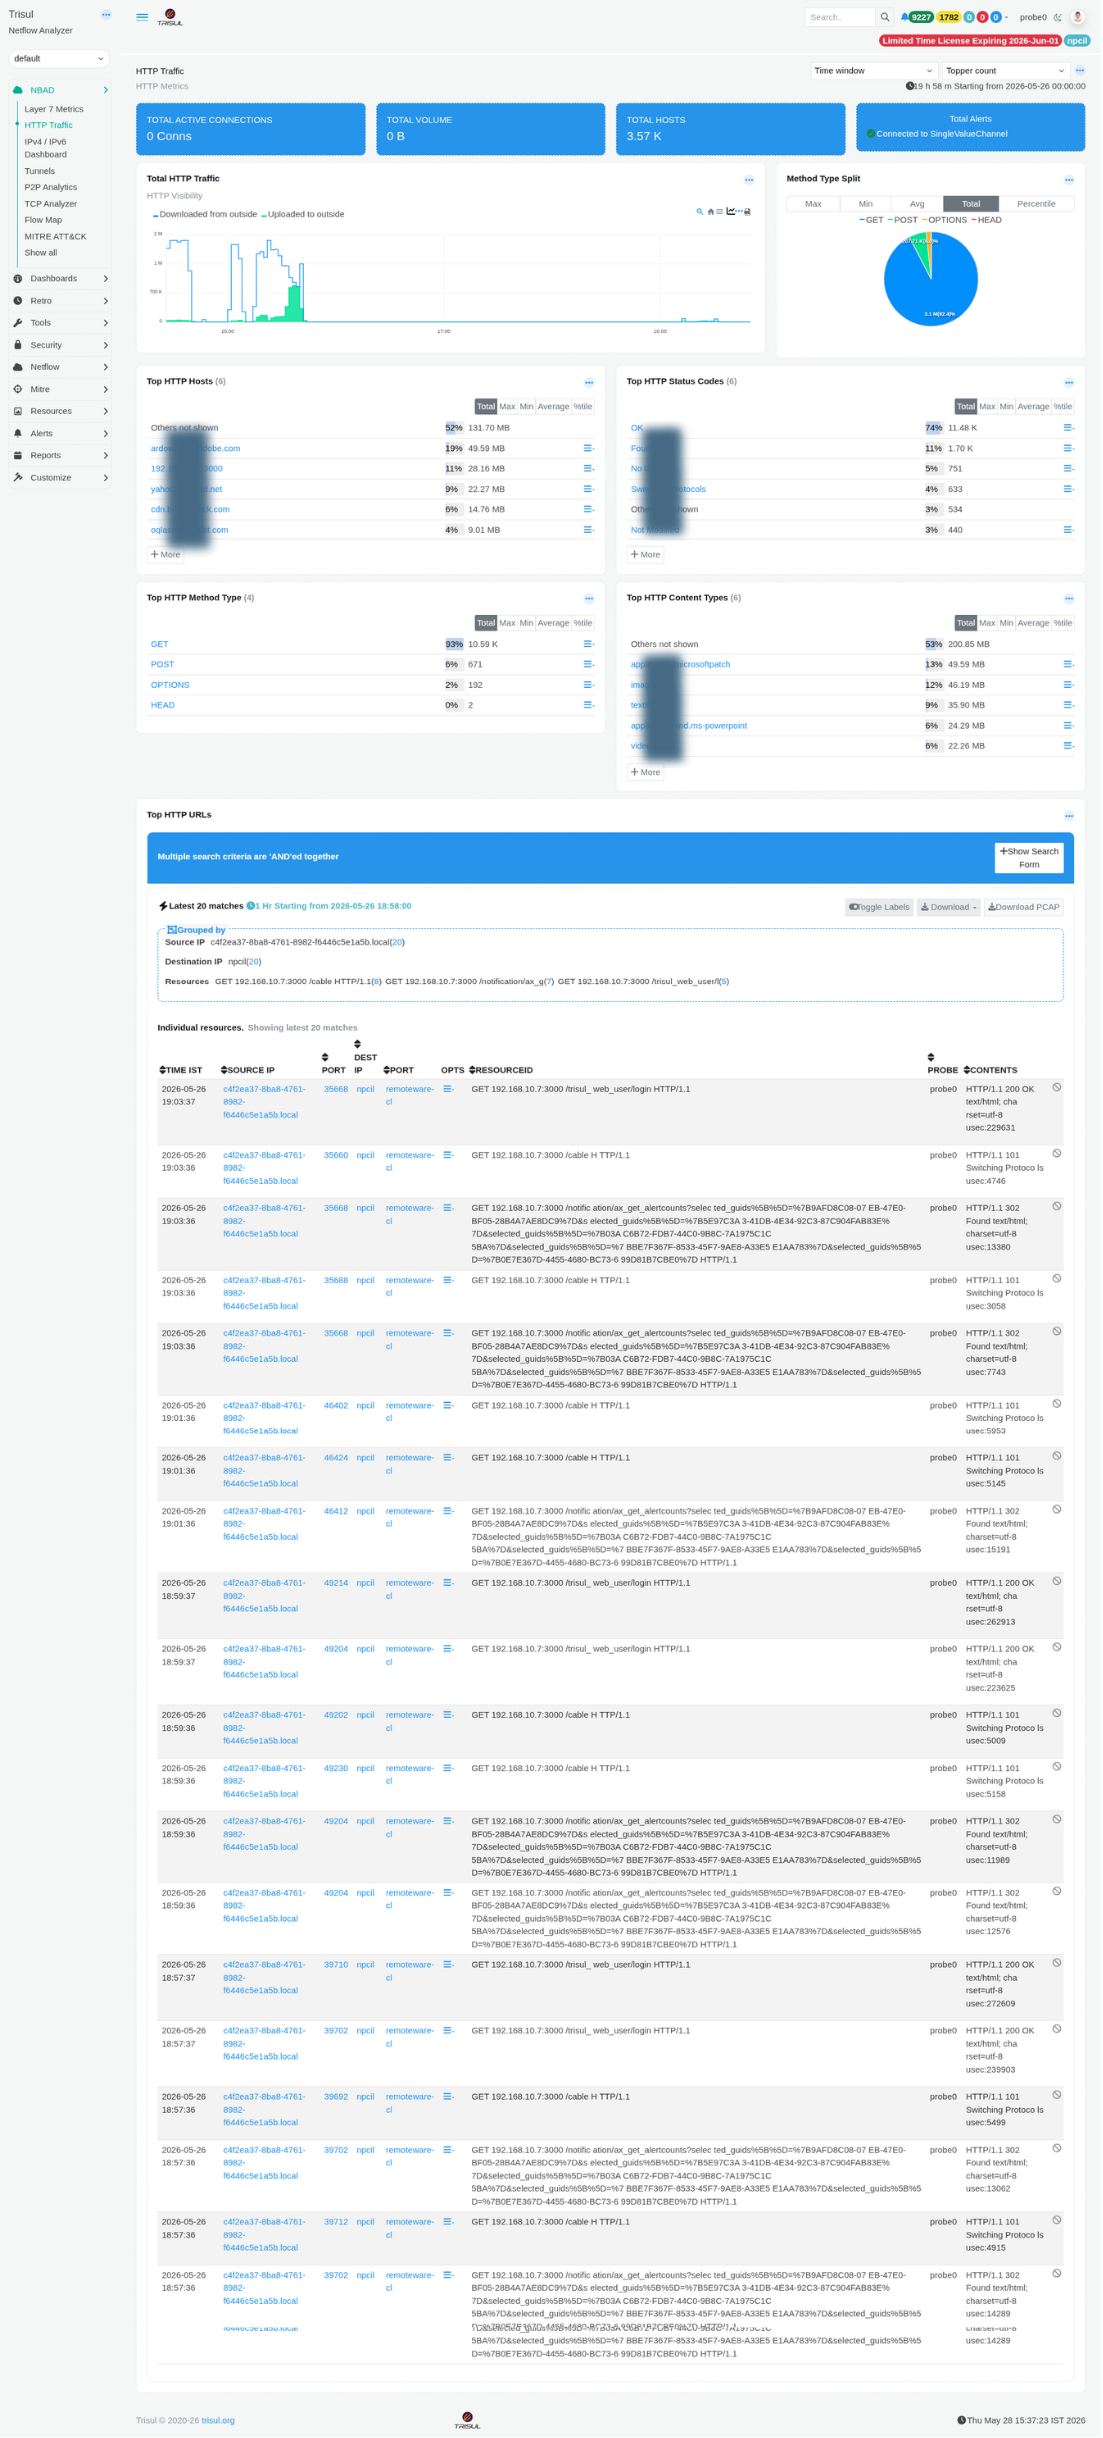
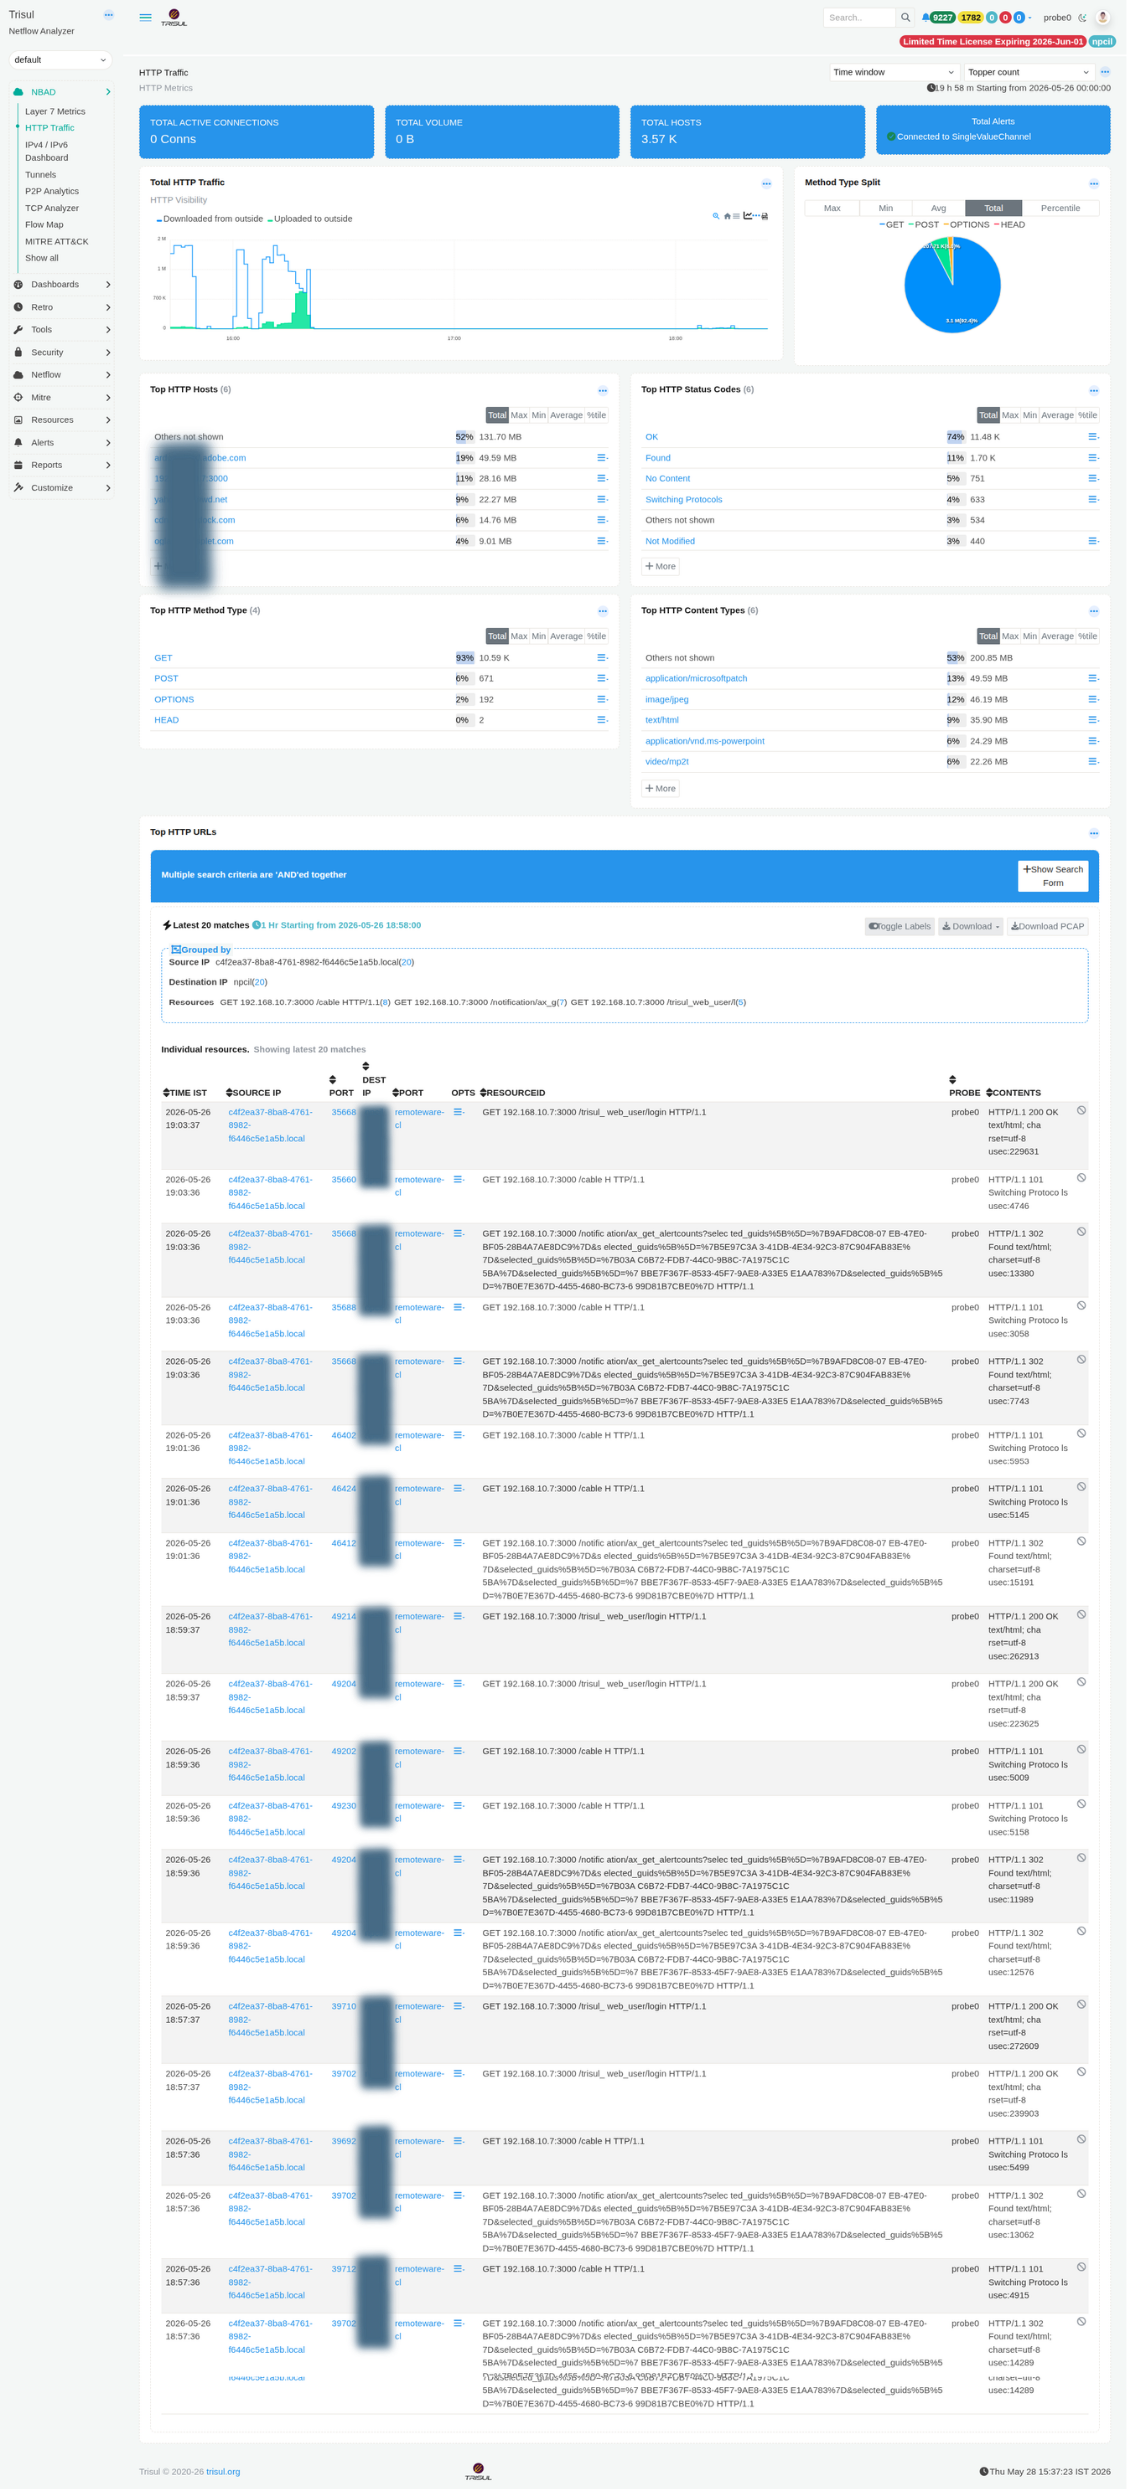
tunnel and http in nbad screenshot masked npcil as per krishna's advice

diff --git a/trisuldocs/docusaurus.config.js b/trisuldocs/docusaurus.config.js
@@ -29,8 +29,7 @@ const config = {
           sidebarPath: './sidebars.js',
           sidebarCollapsed: true,
           versions: {
-            current: 
-            {
+            current: {
               label: 'Version 8.0',
             },
             '7.0': {
@@ -84,7 +83,6 @@ const config = {
             type: 'docsVersionDropdown',
             position: 'left',
           },
-
           {
             type: 'doc',
             docId: 'ag/index',
@@ -122,6 +120,11 @@ const config = {
             position: 'left',
           },
           {
+            to: '/glossary',
+            label: 'Glossary',
+            position: 'left',
+          },
+          {
             type: 'doc',
             docId: 'releasehistory',
             label: 'Changelog',
@@ -133,7 +136,6 @@ const config = {
             label: 'Troubleshooting',
             position: 'left',
           },
-
           {
             href: 'https://github.com/trisulnsm/dinodoc',
             label: 'GitHub',